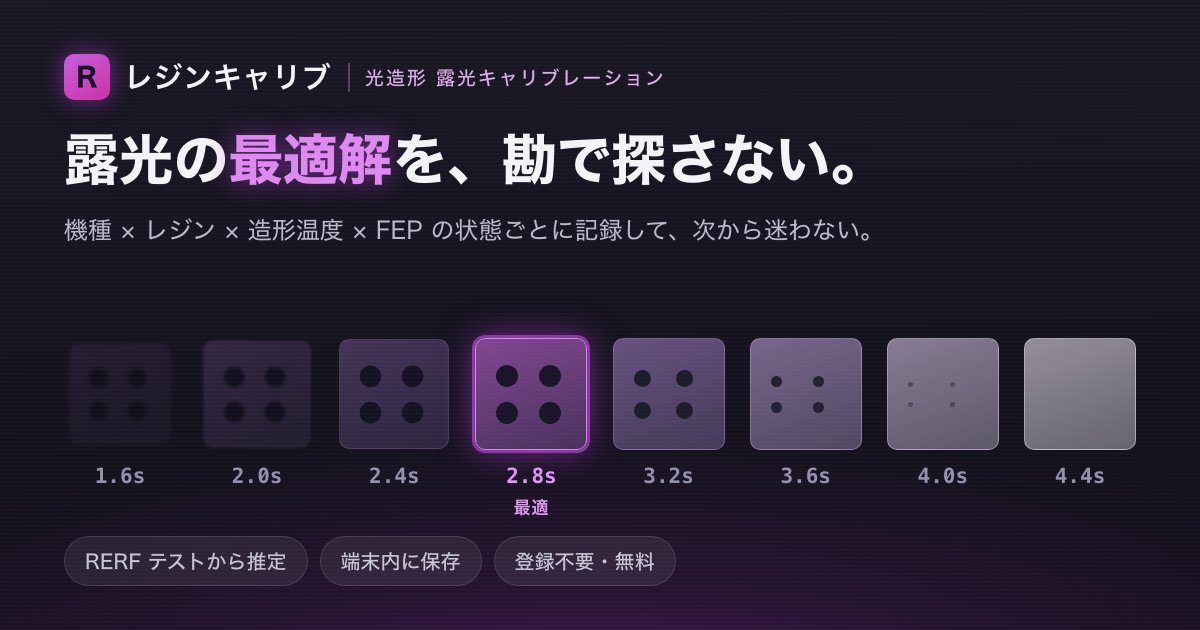
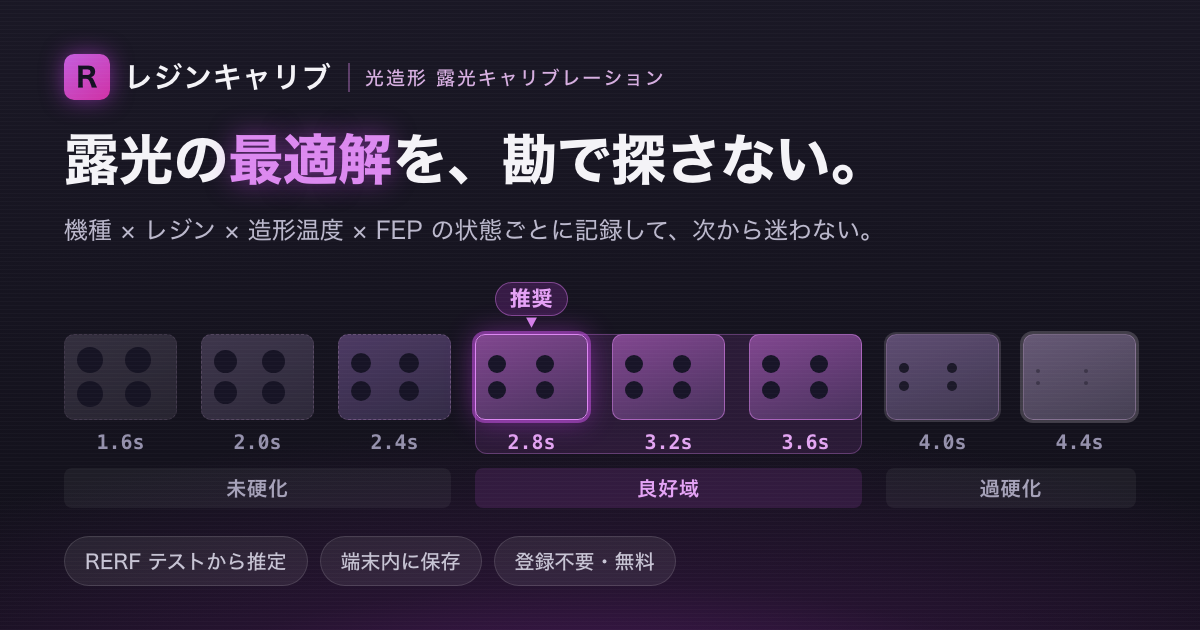
独立レビュー（pl / cto / design）の指摘を反映する
## design（差し戻し）
共有カードが、ツールの実際の判定則と違うことを教えていた。app/lib/exposure.mjs は
「良好域の下限（確実に硬化した中で最も短い露光）」を推奨するのに、カードは左右対称な
山の頂点を1つだけ「最適」として描いており、RERF を知っている人ほど食い違いに気づく。
- 良好域を3段の帯として描き、その下限に「推奨」を置いた（実装と同じ判定則）
- 製品側の語彙（未硬化 / 良好 / 過硬化・RerfEstimator.tsx）に統一。カードだけが
  使っていた第4の語を廃した。両端が何の失敗なのかを名指ししていなかったのも解消
- 符号化を「穴の大きさ」1軸に統一。硬化不足のぼかしは光学の語彙で、未硬化の
  見え方ではないので廃止（縁が荒れる・穴が大きすぎる、で表す）
- 過硬化側の輝度上限を 2.0 から 1.3 に。失敗側がカードで最も明るい面になっていた
- 「推奨」を17px→20pxのピルに。意味を担う文字がカード内で最小だった
- og:image の alt を、製品の説明から画像の説明へ書き換え（title/description と
  重複していて、画像を見られない環境に情報が届いていなかった）
- レイアウト検査に最小クリアランス（28px）の表明を追加。交差だけを見ていたため
  「重なってはいないが詰まりすぎ」が合格していた（実際 10px しか空いていなかった）

## cto（差し戻し）
- README のテスト手順が、実行すると必ず3件落ちるコマンドを指示していた。
  pnpm verify（公開と同じ env でビルド＋テスト）に寄せ、実測で緑を確認
- 書き出した PNG のハッシュも記録するようにした。原版どうしの比較だけでは
  「書き出したが public/og.png をコミットし忘れた」を見逃す
- lib/json-ld.mjs を app/lib/ へ。既存の共有ロジックの置き場と二重化していた
- sitemap の lastModified を削除。static export ではビルド時刻しか入れられず、
  README だけ直したデプロイでも動く＝中身と無関係な値になる

## pl（差し戻し）
- node --test のパス無指定をやめた。build の後に test を置いたことで out/ 配下まで
  走査対象に入り、配信物の JS を CI が実行しうる経路が開いていた。
  なお node --test test/ は node 26 で落ちるため test/*.test.mjs 形式にした（実測）
- requireBuild() の失敗文言に、env 無しビルドだと落ちる旨を明記
- レイアウト検査側の Chrome にも書き出しと同じ配色固定フラグを渡した
- site.ts のコメントを検証済みの範囲に限定した

pl の手続き上の指摘（レビュー投入後に同じ worktree へコミットした）は妥当。
以後はレビュー中の worktree を触らない。

diff --git a/scripts/og-card.html b/scripts/og-card.html
@@ -63,57 +63,96 @@
   .lead { margin-top: 18px; font-size: 24px; font-weight: 500; color: hsl(250 16% 76%); }
 
   /* --- 中段: RERF 露光ラダー -------------------------------------------- */
-  .ladder { position: absolute; top: 338px; left: 64px; right: 64px; height: 192px; }
+  /* 符号化は「穴の大きさ」1軸で通す。硬化不足は材料が立ち上がらず穴が大きく縁が
+     荒れる、過硬化は硬化が回り込んで穴が埋まる。ぼかし（光学の語彙）は使わない。
+     良好域は帯として示し、その下限に「推奨」を置く＝ app/lib/exposure.mjs が
+     「確実に硬化した中で最も短い露光」を推奨するのと同じ判定則にする。 */
+  .ladder { position: absolute; top: 282px; left: 64px; right: 64px; height: 226px; }
 
-  .tiles { display: flex; justify-content: space-between; align-items: flex-start; }
+  .row { display: grid; grid-template-columns: repeat(8, 1fr); gap: 24px; }
 
-  .tile { width: 112px; }
+  /* 推奨の指し示し（良好域の下限＝4段目の上） */
+  .rec { grid-column: 4; text-align: center; }
+  .rec b {
+    display: inline-block; font-size: 21px; font-weight: 800; letter-spacing: .04em;
+    color: hsl(288 82% 80%);
+    background: hsl(288 60% 50% / .22);
+    border: 1px solid hsl(288 60% 66% / .5);
+    border-radius: 999px; padding: 3px 14px; line-height: 1.25;
+  }
+  .rec span { display: block; font-size: 12px; line-height: 1; color: hsl(288 70% 72%); }
 
-  /* 試験片。露光が足りないと縁が甘くなり、過ぎると太って細部が埋まる。 */
+  .tiles { position: relative; margin-top: 6px; }
+
+  /* 良好域の帯（4〜6段目の背後）。負マージンで枠外へ広げると、はみ出し検査に
+     引っかかるうえ実際に段の外へ滲む。セルの内側に収め、下の「良好域」ラベルと
+     同じ色味で縦に連なって見せる。 */
+  .band {
+    grid-row: 1; grid-column: 4 / 7; align-self: stretch;
+    border-radius: 12px;
+    background: hsl(288 55% 55% / .14);
+    border: 1px solid hsl(288 55% 66% / .34);
+  }
+
+  .tile { grid-row: 1; position: relative; }
+  .t1 { grid-column: 1; } .t2 { grid-column: 2; } .t3 { grid-column: 3; }
+  .t4 { grid-column: 4; } .t5 { grid-column: 5; } .t6 { grid-column: 6; }
+  .t7 { grid-column: 7; } .t8 { grid-column: 8; }
+
+  /* 試験片。 */
   .chip {
-    position: relative; width: 112px; height: 112px; border-radius: 10px;
+    position: relative; width: 100%; height: 86px; border-radius: 10px;
     background: linear-gradient(160deg, hsl(268 26% 34%), hsl(258 24% 24%));
     border: 1px solid hsl(288 30% 62% / .32);
-    display: grid; grid-template-columns: 1fr 1fr; gap: 15px;
-    place-content: center; padding: 20px;
+    display: grid; grid-template-columns: 1fr 1fr; gap: 8px;
+    place-content: center; padding: 12px;
   }
   /* 細部（穴）。ここが読めるかどうかが RERF の判定そのもの。 */
-  .chip i { display: block; width: 22px; height: 22px; border-radius: 50%; background: hsl(250 30% 12%); }
+  .chip i { display: block; border-radius: 50%; background: hsl(250 30% 12%); width: 18px; height: 18px; }
 
-  /* 露光不足: 縁も穴も甘い */
-  .u3 .chip { filter: blur(2.6px) brightness(.62); opacity: .5; transform: scale(.9); }
-  .u2 .chip { filter: blur(1.5px) brightness(.76); opacity: .68; transform: scale(.95); }
-  .u1 .chip { filter: blur(.7px)  brightness(.9);  opacity: .85; transform: scale(.98); }
+  /* 硬化不足: 材料が立ち上がらず縁が荒れ、穴が大きすぎる。面も痩せる。 */
+  .u3 .chip { opacity: .58; border-style: dashed; border-color: hsl(288 18% 58% / .38);
+              background: linear-gradient(160deg, hsl(262 12% 30%), hsl(256 12% 22%)); }
+  .u3 .chip i { width: 26px; height: 26px; }
+  .u2 .chip { opacity: .74; border-style: dashed; border-color: hsl(288 20% 60% / .42);
+              background: linear-gradient(160deg, hsl(264 16% 31%), hsl(257 16% 23%)); }
+  .u2 .chip i { width: 23px; height: 23px; }
+  .u1 .chip { opacity: .88; border-style: dashed; border-color: hsl(288 24% 62% / .46); }
+  .u1 .chip i { width: 20px; height: 20px; }
 
-  /* 最適: 縁が立ち、穴が丸く抜ける */
-  .ok .chip {
-    border-color: hsl(288 80% 72%);
-    box-shadow: 0 0 0 3px hsl(288 78% 62% / .55), 0 0 34px hsl(288 80% 58% / .55);
+  /* 良好域。下限（推奨）だけ縁を立てる。 */
+  .g .chip {
     background: linear-gradient(160deg, hsl(288 34% 42%), hsl(272 30% 28%));
+    border-color: hsl(288 60% 68% / .6);
+  }
+  .g.rec-step .chip {
+    border-color: hsl(288 80% 74%);
+    box-shadow: 0 0 0 3px hsl(288 78% 62% / .5), 0 0 28px hsl(288 80% 58% / .45);
   }
 
-  /* 露光過多: 硬化が回り込み穴が埋まっていく */
-  .o1 .chip { filter: brightness(1.24) saturate(.8); }
-  .o1 .chip i { width: 17px; height: 17px; }
-  .o2 .chip { filter: brightness(1.5) saturate(.55); }
-  .o2 .chip i { width: 11px; height: 11px; }
-  .o3 .chip { filter: brightness(1.78) saturate(.3); }
-  .o3 .chip i { width: 5px; height: 5px; opacity: .5; }
-  .o4 .chip { filter: brightness(2.0) saturate(.14); }
-  .o4 .chip i { opacity: 0; }
+  /* 過硬化: 硬化が回り込んで穴が埋まり、縁が太る。輝度は上げすぎない
+     （失敗側がカードで最も明るい面になると視線の主役が入れ替わる）。 */
+  .o1 .chip { filter: brightness(1.16) saturate(.72); box-shadow: 0 0 0 2px hsl(288 12% 70% / .18); }
+  .o1 .chip i { width: 10px; height: 10px; }
+  .o2 .chip { filter: brightness(1.3) saturate(.5); box-shadow: 0 0 0 3px hsl(288 10% 72% / .2); }
+  .o2 .chip i { width: 4px; height: 4px; opacity: .45; }
 
   .sec {
-    margin-top: 14px; text-align: center;
+    margin-top: 10px; text-align: center;
     font-family: "SF Mono", Menlo, Consolas, monospace;
-    font-size: 21px; font-weight: 600; color: hsl(250 14% 62%);
+    font-size: 20px; font-weight: 600; color: hsl(250 14% 62%);
   }
-  .ok .sec { color: hsl(288 78% 78%); }
+  .g .sec { color: hsl(288 74% 80%); }
 
-  .badge {
-    margin-top: 7px; text-align: center;
-    font-size: 17px; font-weight: 700; letter-spacing: .06em;
-    color: hsl(288 80% 78%);
+  /* 帯の意味を名指しする。両端が何の失敗なのかを書かないと、単なる明度ランプに見える。 */
+  .zones { margin-top: 14px; }
+  .zone {
+    font-size: 20px; font-weight: 700; letter-spacing: .04em; text-align: center;
+    padding: 5px 0; border-radius: 8px;
   }
+  .z-under { grid-column: 1 / 4; color: hsl(250 14% 68%); background: hsl(250 20% 100% / .05); }
+  .z-good  { grid-column: 4 / 7; color: hsl(288 80% 80%); background: hsl(288 55% 55% / .16); }
+  .z-over  { grid-column: 7 / 9; color: hsl(250 14% 68%); background: hsl(250 20% 100% / .05); }
 
   /* --- 下段: 前提 -------------------------------------------------------- */
   .foot {
@@ -140,15 +179,26 @@
   </div>
 
   <div class="ladder">
-    <div class="tiles">
-      <div class="tile u3"><div class="chip"><i></i><i></i><i></i><i></i></div><div class="sec">1.6s</div></div>
-      <div class="tile u2"><div class="chip"><i></i><i></i><i></i><i></i></div><div class="sec">2.0s</div></div>
-      <div class="tile u1"><div class="chip"><i></i><i></i><i></i><i></i></div><div class="sec">2.4s</div></div>
-      <div class="tile ok"><div class="chip"><i></i><i></i><i></i><i></i></div><div class="sec">2.8s</div><div class="badge">最適</div></div>
-      <div class="tile o1"><div class="chip"><i></i><i></i><i></i><i></i></div><div class="sec">3.2s</div></div>
-      <div class="tile o2"><div class="chip"><i></i><i></i><i></i><i></i></div><div class="sec">3.6s</div></div>
-      <div class="tile o3"><div class="chip"><i></i><i></i><i></i><i></i></div><div class="sec">4.0s</div></div>
-      <div class="tile o4"><div class="chip"><i></i><i></i><i></i><i></i></div><div class="sec">4.4s</div></div>
+    <div class="row marks">
+      <div class="rec"><b>推奨</b><span>&#9660;</span></div>
+    </div>
+
+    <div class="row tiles">
+      <div class="band"></div>
+      <div class="tile t1 u3"><div class="chip"><i></i><i></i><i></i><i></i></div><div class="sec">1.6s</div></div>
+      <div class="tile t2 u2"><div class="chip"><i></i><i></i><i></i><i></i></div><div class="sec">2.0s</div></div>
+      <div class="tile t3 u1"><div class="chip"><i></i><i></i><i></i><i></i></div><div class="sec">2.4s</div></div>
+      <div class="tile t4 g rec-step"><div class="chip"><i></i><i></i><i></i><i></i></div><div class="sec">2.8s</div></div>
+      <div class="tile t5 g"><div class="chip"><i></i><i></i><i></i><i></i></div><div class="sec">3.2s</div></div>
+      <div class="tile t6 g"><div class="chip"><i></i><i></i><i></i><i></i></div><div class="sec">3.6s</div></div>
+      <div class="tile t7 o1"><div class="chip"><i></i><i></i><i></i><i></i></div><div class="sec">4.0s</div></div>
+      <div class="tile t8 o2"><div class="chip"><i></i><i></i><i></i><i></i></div><div class="sec">4.4s</div></div>
+    </div>
+
+    <div class="row zones">
+      <div class="zone z-under">未硬化</div>
+      <div class="zone z-good">良好域</div>
+      <div class="zone z-over">過硬化</div>
     </div>
   </div>
 
@@ -199,7 +249,21 @@
       }
     }
 
-    // --- 3. カード外への飛び出し ---
+    // --- 3. 段どうしの最小クリアランス ---
+    // 交差だけを見ていると 1px 空いていれば合格してしまう。実際には「重なってはいないが
+    // 詰まりすぎ」が目視で最も見落としやすい破綻なので、必要な余白そのものを表明する。
+    var MIN_GAP = 28;
+    var byTop = boxes.slice().sort(function (a, b) { return a.r.top - b.r.top; });
+    for (var k = 0; k + 1 < byTop.length; k++) {
+      var gap = byTop[k + 1].r.top - byTop[k].r.bottom;
+      // 小数の高さで 27.6px が "28px < 28px" と表示されないよう、丸め分だけ許容する。
+      if (gap < MIN_GAP - 0.5) {
+        bad.push("間隔不足 " + byTop[k].name + "→" + byTop[k + 1].name +
+                 "(" + gap.toFixed(1) + "px < " + MIN_GAP + "px)");
+      }
+    }
+
+    // --- 4. カード外への飛び出し ---
     boxes.forEach(function (b) {
       if (b.r.bottom > 631 || b.r.right > 1201 || b.r.top < -1 || b.r.left < -1) {
         bad.push("枠外 " + b.name + "(" + Math.round(b.r.left) + "," + Math.round(b.r.top) +

diff --git a/app/layout.tsx b/app/layout.tsx
@@ -6,7 +6,7 @@ import "./globals.css";
 import "./theme.css";
 // この製品固有のコンポーネント追加スタイル（構造クラスは上書きせず、新規 UI のみ）。
 import "./ui.css";
-import { toJsonLd } from "../lib/json-ld.mjs";
+import { toJsonLd } from "./lib/json-ld.mjs";
 import { SITE_URL } from "./site";
 
 const SITE_NAME = "レジンキャリブ";
@@ -16,8 +16,10 @@ const DESCRIPTION =
 
 // 共有カード（1200×630）。原版は scripts/og-card.html、書き出し先が public/og.png。
 const OG_IMAGE = `${SITE_URL}og.png`;
+// 画像に何が写っているかを書く（製品の説明は og:description が持っている）。
+// ここが製品説明の重複だと、画像を見られない環境には情報が何も届かない。
 const OG_ALT =
-  "レジンキャリブ — 機種・レジン・造形温度・FEP の状態ごとに露光時間を記録し、RERF テストから推奨値を割り出すツール";
+  "1.6秒から4.4秒まで露光時間を変えた8枚の試験片が並ぶ図。短い側は「未硬化」で穴が大きく縁が荒れ、長い側は「過硬化」で穴が埋まっていく。中央の3枚が「良好域」で、その下限にあたる2.8秒に「推奨」と示されている。";
 
 // 検索エンジンに「何をするページか」を機械可読で渡す。露光条件を扱う計算ツールなので、
 // 無料であること（offers ¥0）と端末内で完結することまで含めて明示する。

diff --git a/app/site.ts b/app/site.ts
@@ -18,3 +18,6 @@ export const SITE_URL = `https://ga-project.github.io${BASE_PATH}/`;
 // チャンクに残る」＝出力物の検査は緑のまま訪問者のブラウザで例外、という壊れ方をする。
 // client component から import すると process.env が空に置換され、basePath を落とした
 // 誤った URL（https://ga-project.github.io/og.png）が静かに出来上がる。
+// なお ssr:false の dynamic import 経由でも同じ結果になるかは未検証。その経路でも
+// SITE_URL の文字列は client chunk に焼かれるので、test/guards.test.mjs の
+// 「クライアントバンドルに公開 URL が焼き込まれていない」が最終的な網になる。

diff --git a/app/sitemap.ts b/app/sitemap.ts
@@ -13,8 +13,9 @@ export default function sitemap(): MetadataRoute.Sitemap {
   return [
     {
       url: SITE_URL,
-      // Google が実際に見るのは lastModified。ビルド時刻を入れる。
-      lastModified: new Date(),
+      // lastModified は入れない。static export ではビルド時刻しか入れられず、README だけ
+      // 直したデプロイでも動く＝中身と無関係に「更新された」と言うことになる。
+      // 不正確な lastmod は検索エンジン側で無視されるので、書かない方が誠実。
       changeFrequency: "monthly",
       priority: 1,
     },

diff --git a/README.md b/README.md
@@ -38,12 +38,19 @@ PAGES_BASE_PATH=/resin-calib NEXT_PUBLIC_GOATCOUNTER_CODE=ga-project pnpm build
 ## テスト
 
 ```bash
-pnpm build && pnpm test    # ← この順で実行する
+pnpm verify                # 公開と同じ env でビルドしてから全テストを走らせる
 ```
 
-`test/guards.test.mjs` は書き出した `out/` を検査するので、**先に `pnpm build` が要る**
+`test/guards.test.mjs` は書き出した `out/` を検査するので、**ビルドが先に要る**
 （`out/` が無ければ「ビルドしていないから緑」にならないよう、明示的に失敗する）。
-CI も `typecheck → lint → build → test` の順で通し、どれかが落ちれば公開へ進まない。
+
+素の `pnpm build && pnpm test` は使わない。`PAGES_BASE_PATH` を渡さずにビルドすると
+公開 URL から `/resin-calib` が落ち、計測タグも出ないため、**製品は壊れていないのに
+検査だけが赤くなる**（og:image・sitemap と canonical の一致・計測タグの3件）。
+手元と CI が同じ 1 コマンドを実行するよう `verify` に寄せてある。
+
+CI は `secret scan → typecheck → lint → build → test` の順で通し、どれかが落ちれば
+公開へ進まない。
 
 - `test/exposure.test.mjs` … RERF からの推奨露光時間の推定ロジック
 - `test/storage.test.mjs` … 永続化（正規化 / シリアライズ / インポート）
